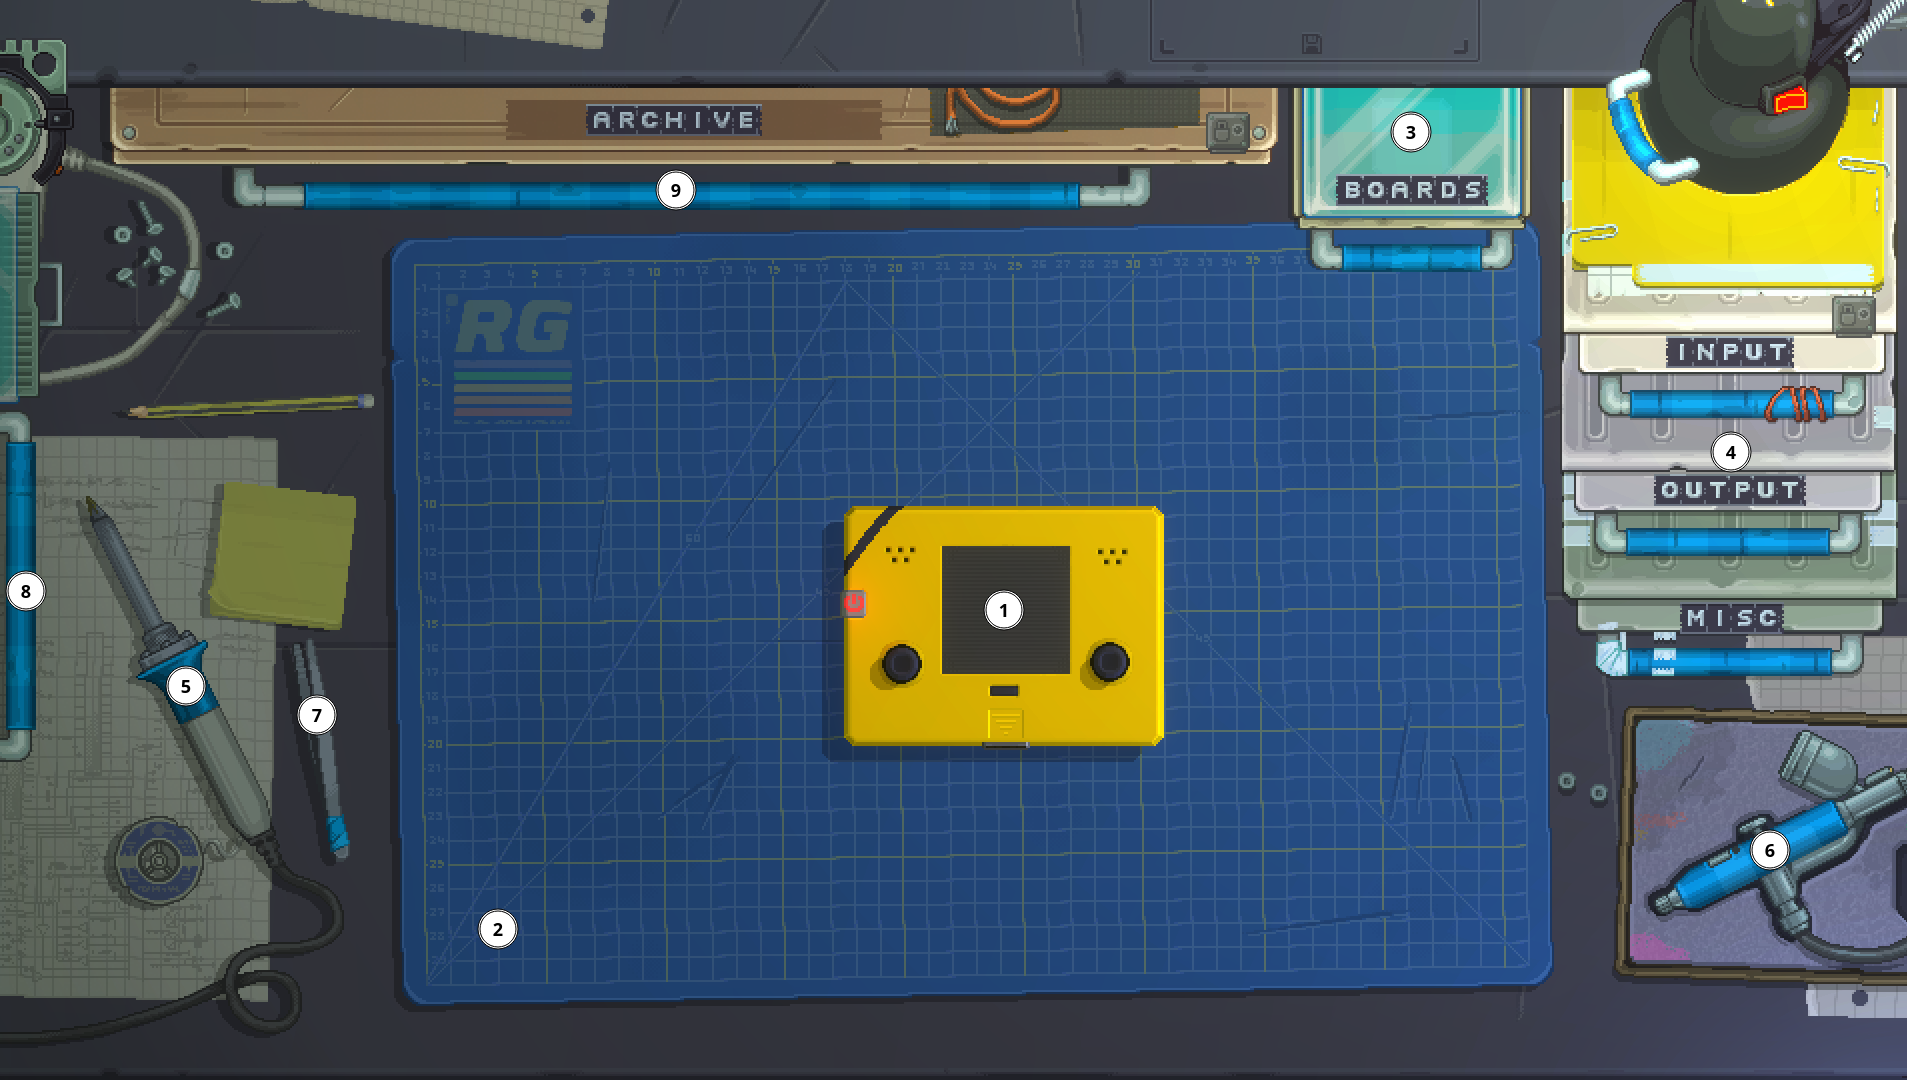
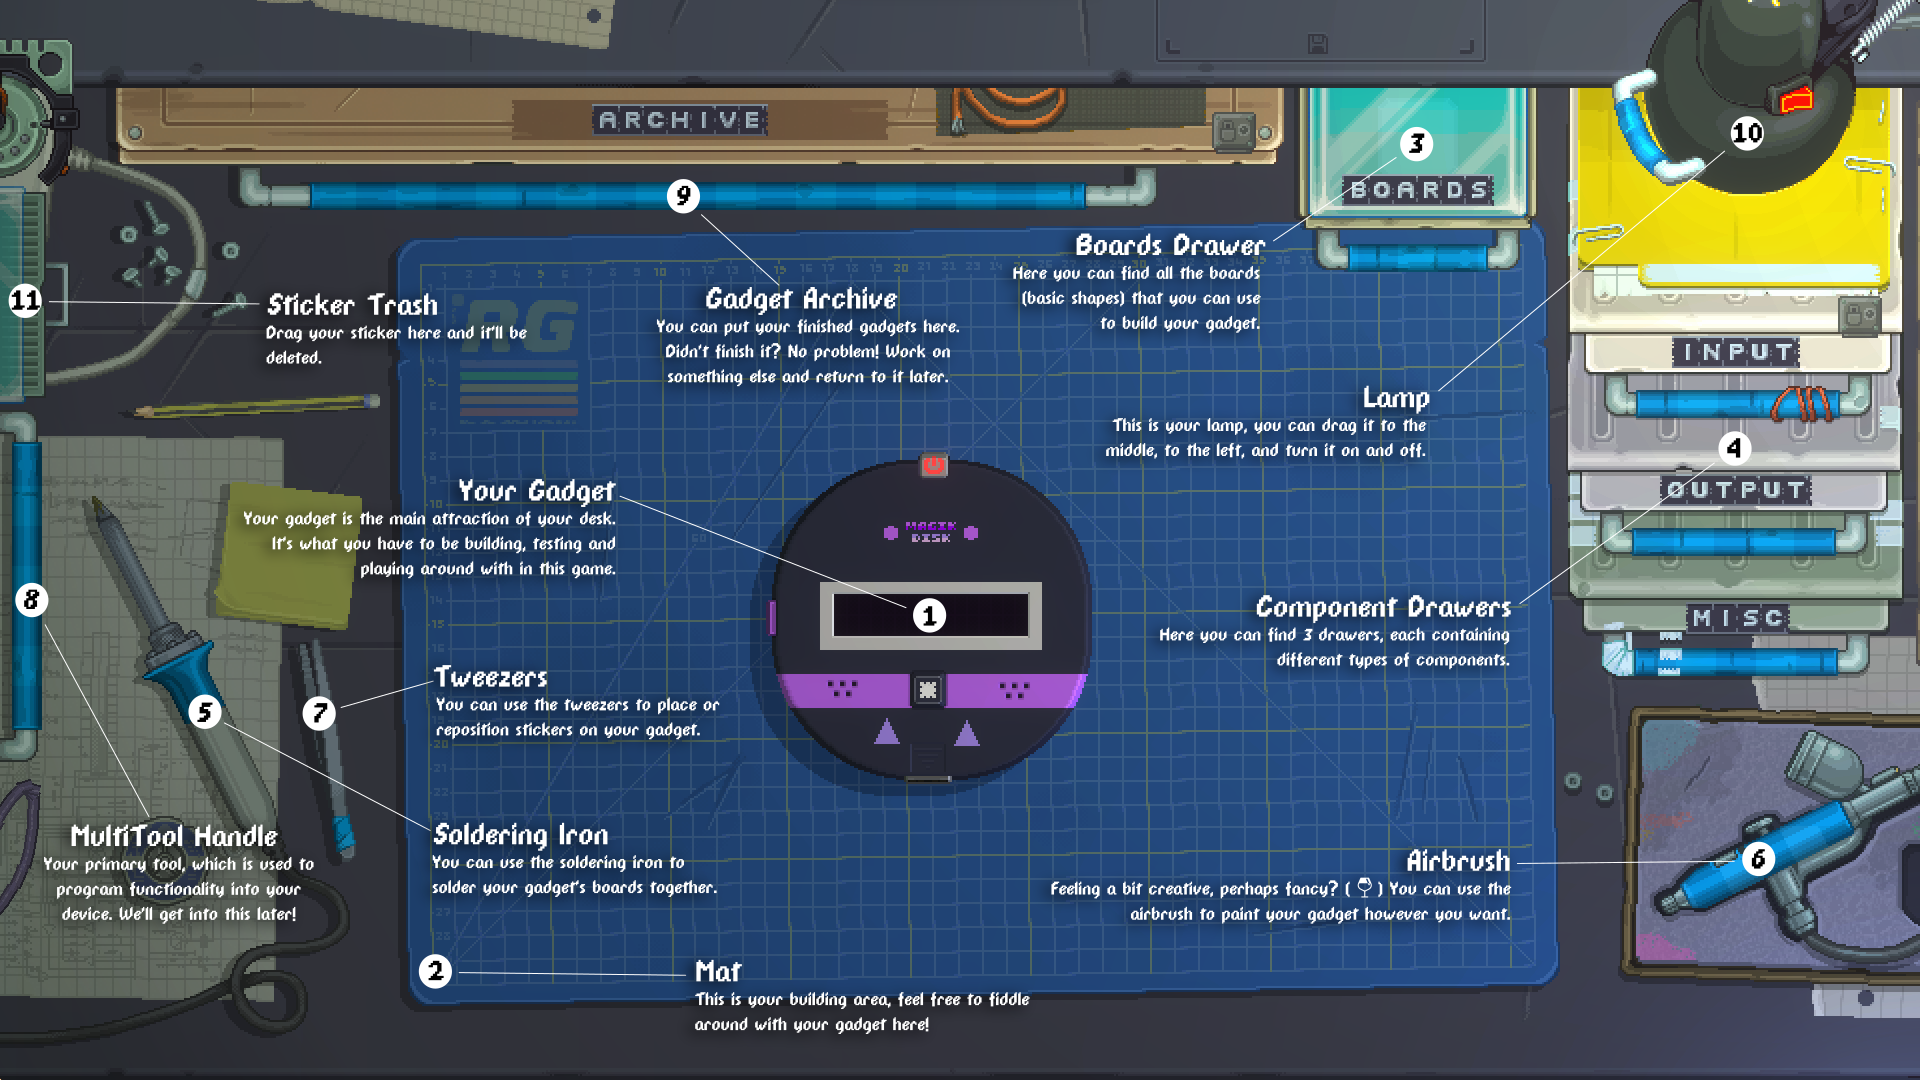
Change `building-mode.png`
updated the table in `getting-started.md`

diff --git a/examples/getting-started.md b/examples/getting-started.md
@@ -7,58 +7,21 @@ The Retro Desk has **2 modes**: MultiTool Mode and Building Mode.
 	<img src="../.github/screenshots/building-mode.png" width="1000px">
 </p>
 
-<div align="center">
-<table>
-	<tr>
-		<td>
-			<b>1. Your ✨ Amazing ✨ Gadget</b><br>
-			Your gadget is the main attraction of your desk. It's what you have to be building, testing and playing around with in this game.
-   		</td>
-		<td>
-			<b>2. Gadget Mat</b><br>
-			This is your building area, feel free to
-			fiddle around with your gadget here!
-   		</td>
-		<td>
-			<b>3. The Boards' Drawer</b><br>
-			Here you can find all the boards (basic shapes) that you can use to build your gadget.
-		</td>
-	</tr>
-	<tr>
-		<td>
-			<b>4. Component Drawers</b><br>
-			Here you can find 3 drawers, each containing different types of components.
-			<!-- TODO: add links to the components -->
-		</td>
-		<td>
-			<b>5. The Soldering Iron</b><br>
-			You can use the soldering iron to solder
-			your gadget's boards together.
-		</td>
-		<td>
-			<b>6. The Airbrush</b><br>
-			Feeling a bit creative, perhaps fancy? (🍷) You can use the airbrush to paint your gadget however you want.
-		</td>
-	</tr>
-	<tr>
-		<td>
-			<b>7. The Tweezers</b><br>
-			You can use the tweezers to place or reposition stickers on your gadget.
-		</td>
-		<td>
-			<b>8. MultiTool Handle</b><br>
-			Your primary tool, which is used to
-			program functionality into your device.  
-			We'll get into this later!
-		</td>
-		<td>
-			<b>9. Gadget Archive</b><br>
-			You can put your finished gadgets here.
-			Didn't finish it? No problem! Work on something else and return to it later.
-		</td>
-	</tr>
-</table>
-</div>
+## Interactable Objects
+
+| Object Name          | Description                                                                                                                       |
+| :------------------- | :-------------------------------------------------------------------------------------------------------------------------------- |
+| 1. Your Gadget       | Your gadget is the main attraction of your desk. It's what you have to be building, testing and playing around with in this game. |
+| 2. Mat               | This is your building area, feel free to fiddle around with your gadget here!                                                     |
+| 3. Boards Drawer     | Here you can find all the boards (basic shapes) that you can use to build your gadget.                                            |
+| 4. Component Drawers | Here you can find 3 drawers, each containing different types of components.                                                       |
+| 5. Soldering Iron    | You can use the soldering iron to solder your gadget's boards together.                                                           |
+| 6. Airbrush          | Feeling a bit creative, perhaps fancy? (🍷) You can use the airbrush to paint your gadget however you want.                        |
+| 7. Twwezers          | You can use the tweezers to place or reposition stickers on your gadget.                                                          |
+| 8. MultiTool Handle  | Your primary tool, which is used to program functionality into your device. We'll get into this later!                            |
+| 9. Gadget Archive    | You can put your finished gadgets here. Didn't finish it? No problem! Work on something else and return to it later.              |
+| 10. Lamp             | This is your lamp, you can drag it to the middle, to the left, and turn it on and off.                                            |
+| 11. Sticker Trash    | Drag your sticker here and it'll be deleted.                                                                                      |
 
 <!-- 
 TODO:
